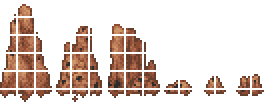
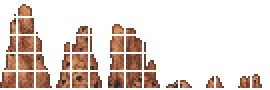
Savanna tile tweaks

Changed region(s): [[0.0, 0.0222, 0.7111, 0.9778], [0.7407, 0.6667, 0.9778, 0.9778]]

diff --git a/Content/Savanna/Tiles/TermiteMound.cs b/Content/Savanna/Tiles/TermiteMound.cs
@@ -1,9 +1,7 @@
-using SpiritReforged.Common.TileCommon;
-using Terraria.DataStructures;
+using Terraria.DataStructures;
 
 namespace SpiritReforged.Content.Savanna.Tiles;
 
-[DrawOrder(DrawOrderAttribute.Layer.Solid, DrawOrderAttribute.Layer.Default)]
 public class TermiteMoundLarge : ModTile
 {
 	public override string Texture => base.Texture.Replace("Large", string.Empty);
@@ -12,6 +10,9 @@ public class TermiteMoundLarge : ModTile
 	{
 		Main.tileSolid[Type] = false;
 		Main.tileFrameImportant[Type] = true;
+		Main.tileNoFail[Type] = true;
+
+		TileID.Sets.BreakableWhenPlacing[Type] = true;
 
 		TileObjectData.newTile.CopyFrom(TileObjectData.Style3x3);
 		TileObjectData.newTile.Height = 5;
@@ -56,30 +57,16 @@ public class TermiteMoundLarge : ModTile
 		var tile = Framing.GetTileSafely(i, j);
 		var texture = TextureAssets.Tile[tile.TileType].Value;
 
-		if (DrawOrderHandler.order == DrawOrderAttribute.Layer.Default)
-		{
-			var frame = new Point(tile.TileFrameX + 18 * frameXOffset, tile.TileFrameY + 18 * frameYOffset);
-			var source = new Rectangle(frame.X, frame.Y, 16, 16);
+		var frame = new Point(tile.TileFrameX + 18 * frameXOffset, tile.TileFrameY + 18 * frameYOffset);
+		var source = new Rectangle(frame.X, frame.Y, 16, 16);
 
-			var zero = Main.drawToScreen ? Vector2.Zero : new Vector2(Main.offScreenRange, Main.offScreenRange);
-			var position = new Vector2(i, j) * 16 - Main.screenPosition + zero;
+		var zero = Main.drawToScreen ? Vector2.Zero : new Vector2(Main.offScreenRange, Main.offScreenRange);
+		var position = new Vector2(i, j) * 16 - Main.screenPosition + zero + new Vector2(0, 2);
 
-			spriteBatch.Draw(texture, position, source, Lighting.GetColor(i, j), 0, Vector2.Zero, 1, SpriteEffects.None, 0);
-		}
-		else if (tile.TileFrameY == 0)
-		{
-			var data = TileObjectData.GetTileData(tile);
-
-			var frame = new Point(tile.TileFrameX + frameXOffset * 18, 18 * 5);
-			var source = new Rectangle(frame.X, frame.Y, 16, 16);
-			var position = new Vector2(i, j + data.Height) * 16 - Main.screenPosition;
-
-			spriteBatch.Draw(texture, position, source, Lighting.GetColor(i, j + data.Height), 0, Vector2.Zero, 1, SpriteEffects.None, 0);
-		}
+		spriteBatch.Draw(texture, position, source, Lighting.GetColor(i, j), 0, Vector2.Zero, 1, SpriteEffects.None, 0);
 	}
 }
 
-[DrawOrder(DrawOrderAttribute.Layer.Solid, DrawOrderAttribute.Layer.Default)]
 public class TermiteMoundMedium : ModTile
 {
 	public override string Texture => base.Texture.Replace("Medium", string.Empty);
@@ -88,6 +75,9 @@ public class TermiteMoundMedium : ModTile
 	{
 		Main.tileSolid[Type] = false;
 		Main.tileFrameImportant[Type] = true;
+		Main.tileNoFail[Type] = true;
+
+		TileID.Sets.BreakableWhenPlacing[Type] = true;
 
 		TileObjectData.newTile.CopyFrom(TileObjectData.Style3x2);
 		TileObjectData.newTile.Height = 4;
@@ -128,7 +118,6 @@ public class TermiteMoundMedium : ModTile
 	}
 }
 
-[DrawOrder(DrawOrderAttribute.Layer.Solid, DrawOrderAttribute.Layer.Default)]
 public class TermiteMoundSmall : ModTile
 {
 	public override string Texture => base.Texture.Replace("Small", string.Empty);
@@ -137,6 +126,9 @@ public class TermiteMoundSmall : ModTile
 	{
 		Main.tileSolid[Type] = false;
 		Main.tileFrameImportant[Type] = true;
+		Main.tileNoFail[Type] = true;
+
+		TileID.Sets.BreakableWhenPlacing[Type] = true;
 
 		TileObjectData.newTile.CopyFrom(TileObjectData.Style2x1);
 		TileObjectData.newTile.CoordinateHeights = [16];

diff --git a/SpiritReforgedSystem.cs b/SpiritReforgedSystem.cs
@@ -1,28 +1,9 @@
 using SpiritReforged.Common.Particle;
-using System.IO;
 
 namespace SpiritReforged;
 
 public class SpiritReforgedSystem : ModSystem
 {
-	private static int StaticWorldSeed = -1;
-
-	internal static int GetWorldSeed()
-	{
-		if (StaticWorldSeed > -1)
-			return StaticWorldSeed;
-
-		int seed = -1;
-		if (WorldGen.currentWorldSeed is not null && !int.TryParse(WorldGen.currentWorldSeed, out seed))
-			seed = ReLogic.Utilities.Crc32.Calculate(WorldGen.currentWorldSeed);
-
-		return StaticWorldSeed = (seed == int.MinValue) ? int.MaxValue : Math.Abs(seed); //Parse the world seed and store it
-	}
-
-	public override void OnWorldUnload() => StaticWorldSeed = -1;
-	public override void NetSend(BinaryWriter writer) => writer.Write(StaticWorldSeed);
-	public override void NetReceive(BinaryReader reader) => StaticWorldSeed = reader.ReadInt32();
-
 	public override void PreUpdateItems()
 	{
 		if (Main.netMode != NetmodeID.Server)

diff --git a/Content/Savanna/Tiles/SavannaRocks.cs b/Content/Savanna/Tiles/SavannaRocks.cs
@@ -11,6 +11,9 @@ public class SavannaRockLarge : ModTile
 		Main.tileMergeDirt[Type] = false;
 		Main.tileBlockLight[Type] = false;
 		Main.tileFrameImportant[Type] = true;
+		Main.tileNoFail[Type] = true;
+
+		TileID.Sets.BreakableWhenPlacing[Type] = true;
 
 		TileObjectData.newTile.CopyFrom(TileObjectData.Style3x2);
 		TileObjectData.newTile.CoordinateHeights = [16, 18];
@@ -56,6 +59,9 @@ public class SavannaRockSmall : ModTile
 		Main.tileMergeDirt[Type] = false;
 		Main.tileBlockLight[Type] = false;
 		Main.tileFrameImportant[Type] = true;
+		Main.tileNoFail[Type] = true;
+
+		TileID.Sets.BreakableWhenPlacing[Type] = true;
 
 		TileObjectData.newTile.CopyFrom(TileObjectData.Style2x1);
 		TileObjectData.newTile.CoordinateHeights = [18];

diff --git a/Content/Ocean/Items/Blunderbuss/BlunderbussProjectile.cs b/Content/Ocean/Items/Blunderbuss/BlunderbussProjectile.cs
@@ -1,4 +1,6 @@
-using System.Linq;
+using System.IO;
+using System.Linq;
+using Terraria.ModLoader.IO;
 
 namespace SpiritReforged.Content.Ocean.Items.Blunderbuss;
 
@@ -66,4 +68,7 @@ internal class BlunderbussProjectile : GlobalProjectile
 
 		return (brightest == default) ? Color.Goldenrod : brightest;
 	}
+
+	public override void SendExtraAI(Projectile projectile, BitWriter bitWriter, BinaryWriter binaryWriter) => binaryWriter.Write(firedFromBlunderbuss);
+	public override void ReceiveExtraAI(Projectile projectile, BitReader bitReader, BinaryReader binaryReader) => firedFromBlunderbuss = binaryReader.ReadBoolean();
 }

diff --git a/Content/Ocean/Tiles/Kelp.cs b/Content/Ocean/Tiles/Kelp.cs
@@ -49,7 +49,7 @@ public class Kelp2x3 : ModTile, IDrawPreview
 	protected static Vector3 GetGlowColor(int x)
 	{
 		Color[] selections = [new Color(110, 150, 138), Color.LightSeaGreen, new Color(100, 220, 110), new Color(240, 240, 180), Color.LightSkyBlue, Color.Teal, Color.PowderBlue];
-		int seed = (int)((1f + (float)Math.Sin(SpiritReforgedSystem.GetWorldSeed())) * selections.Length) % selections.Length;
+		int seed = (int)((1f + (float)Math.Sin(Main.ActiveWorldFileData.Seed)) * selections.Length) % selections.Length;
 
 		var unit = selections[seed];
 

diff --git a/Content/Savanna/Tiles/SavannaShrubs.cs b/Content/Savanna/Tiles/SavannaShrubs.cs
@@ -11,7 +11,9 @@ public class SavannaShrubs : ModTile
 		Main.tileMergeDirt[Type] = false;
 		Main.tileBlockLight[Type] = false;
 		Main.tileFrameImportant[Type] = true;
+		Main.tileNoFail[Type] = true;
 
+		TileID.Sets.BreakableWhenPlacing[Type] = true;
 		TileID.Sets.SwaysInWindBasic[Type] = true;
 
 		const int height = 44;

diff --git a/Content/Ocean/Boids/BoidManager.cs b/Content/Ocean/Boids/BoidManager.cs
@@ -36,7 +36,7 @@ public class BoidManager : ModSystem
 
 	public override void OnWorldLoad()
 	{
-		int seed = SpiritReforgedSystem.GetWorldSeed();
+		int seed = Main.ActiveWorldFileData.Seed;
 		int boidCount = 8 + seed % 5; //The number of unique boids in this world
 
 		for (int i = 0; i < boidCount; i++)
